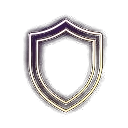
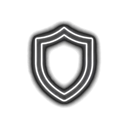
Replace gold stickers with white neon pack for menus
Upload as hakumo_w_* application emojis so /modpanel selects
get clean white neon icons instead of gold or unicode hearts.

Changed region(s): [[0.1562, 0.0938, 0.8438, 0.9062]]

diff --git a/services/menu_emojis.py b/services/menu_emojis.py
@@ -1,9 +1,9 @@
 # -*- coding: utf-8 -*-
 """Кастомные эмодзи меню из assets/stickers (Application Emoji).
 
-Стикеры gold-neon заливаются как эмодзи приложения бота
+Белые neon-стикеры заливаются как эмодзи приложения бота
 (create_application_emoji) — тогда их видно в селектах /modpanel
-без ручной заливки на сервер. Имена: hakumo_warn, hakumo_mute, …
+без ручной заливки на сервер. Имена: hakumo_w_warn, hakumo_w_mute, …
 """
 from __future__ import annotations
 
@@ -64,7 +64,8 @@ _synced = False
 
 
 def _emoji_name(key: str) -> str:
-    return f'hakumo_{key}'
+    # w_ = белый неон-пак (v2); старые hakumo_* не трогаем
+    return f'hakumo_w_{key}'
 
 
 def sticker_path(key: str) -> Optional[str]:
@@ -86,12 +87,12 @@ def emoji_for_action(action: str):
 
 
 def emoji_heart():
-    """Стикер-сердечко (селект по умолчанию) или 🤍."""
+    """Белое neon-сердечко или 🤍."""
     return _cache.get('heart') or '🤍'
 
 
 async def ensure_menu_emojis(bot) -> Dict[str, Any]:
-    """Залить недостающие стикеры как application emoji, заполнить кэш."""
+    """Залить белые стикеры как application emoji, заполнить кэш."""
     global _synced
     if _synced and len(_cache) >= len(STICKER_KEYS):
         return dict(_cache)
@@ -106,23 +107,27 @@ async def ensure_menu_emojis(bot) -> Dict[str, Any]:
         if name in existing:
             _cache[key] = existing[name]
             continue
+        # фолбек на старое имя, если белое ещё не создано, но золотое есть
+        legacy = f'hakumo_{key}'
         path = sticker_path(key)
         if not path:
             _log.warning('menu_emojis: нет файла %s', key)
+            if legacy in existing:
+                _cache[key] = existing[legacy]
             continue
         try:
             with open(path, 'rb') as f:
                 image = f.read()
-            # PNG для application emoji ≤ 256KB обычно ок на 128×128
             em = await bot.create_application_emoji(name=name, image=image)
             _cache[key] = em
             existing[name] = em
-            _log.info('menu_emojis: создан <: %s :> %s', name, em.id)
+            _log.info('menu_emojis: создан %s id=%s', name, em.id)
         except Exception as ex:
-            # уже есть / лимит / нет прав — пробуем найти по имени
             _log.warning('menu_emojis: create %s: %s', name, ex)
             if name in existing:
                 _cache[key] = existing[name]
+            elif legacy in existing:
+                _cache[key] = existing[legacy]
 
     _synced = True
     return dict(_cache)
